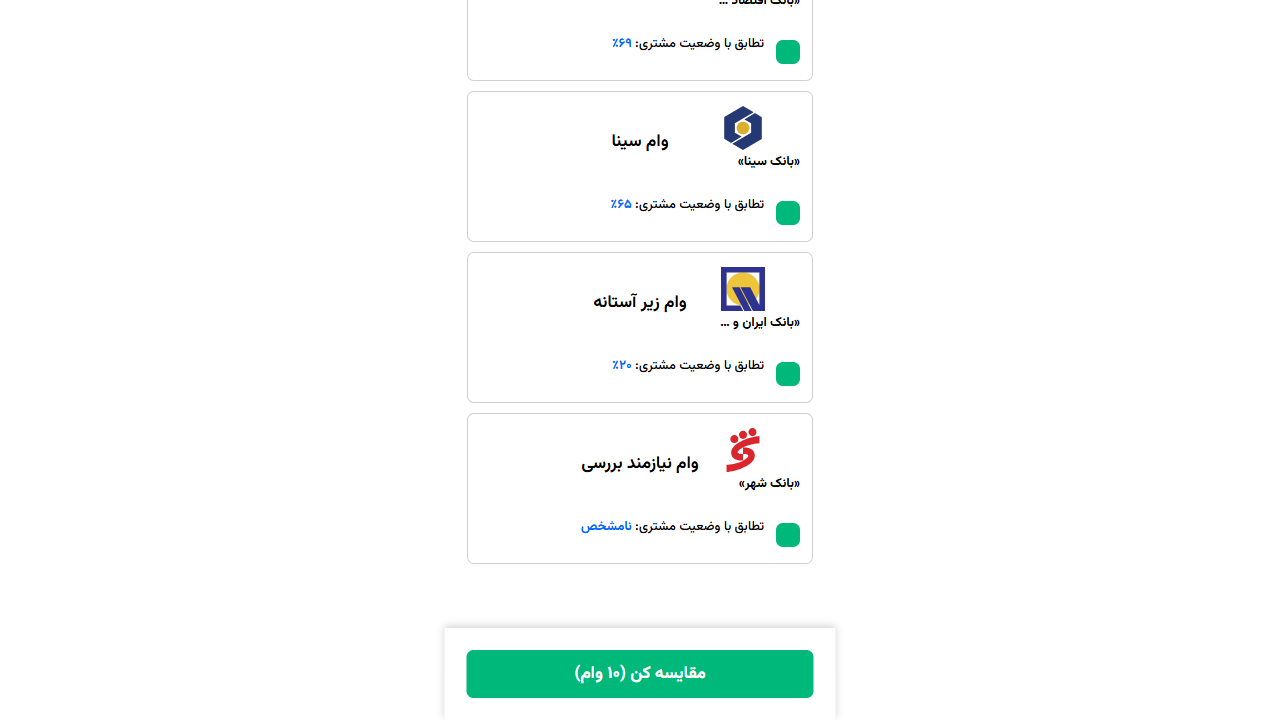
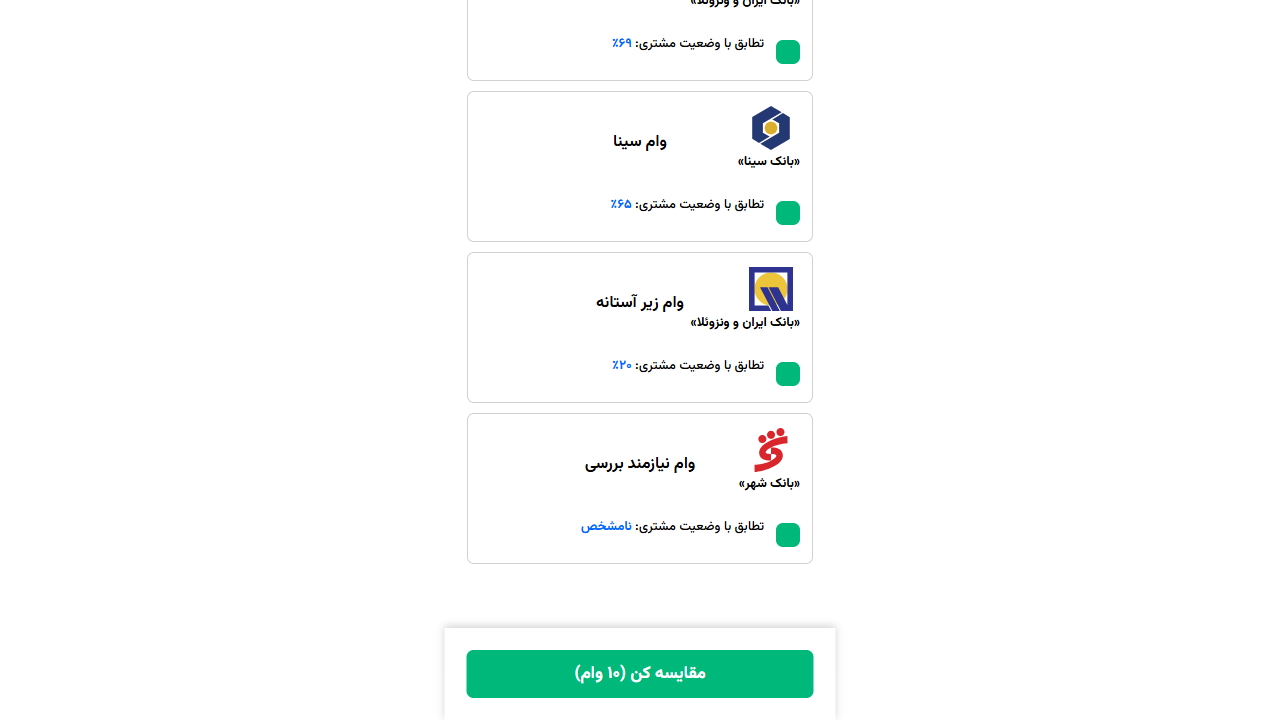
fix(US-09.T06H): preserve full lender names

diff --git a/src/App.css b/src/App.css
@@ -4624,7 +4624,7 @@ button {
   display: grid;
   place-items: center;
   min-height: 78px;
-  padding-inline: 90px;
+  padding-inline: 52px;
   box-sizing: border-box;
 }
 
@@ -4632,10 +4632,10 @@ button {
   position: absolute;
   inset-block-start: 0;
   inset-inline-start: 0;
-  width: 82px;
-  min-width: 0;
+  width: max-content;
+  min-width: 82px;
   display: grid;
-  justify-items: end;
+  justify-items: start;
   gap: 2px;
   font-size: 13px;
   font-weight: 900;
@@ -4647,6 +4647,7 @@ button {
   height: 48px;
   display: grid;
   place-items: center end;
+  justify-self: start;
 }
 
 .hp-bank-logo-box img {
@@ -4656,24 +4657,25 @@ button {
 }
 
 .hp-bank-name {
-  width: 100%;
-  min-width: 0;
-  overflow: hidden;
+  width: max-content;
+  max-width: none;
+  overflow: visible;
   display: block;
   white-space: nowrap;
-  text-overflow: ellipsis;
+  text-overflow: clip;
   text-align: right;
+  justify-self: start;
 }
 
 .hp-loan-result-head strong {
-  width: 100%;
+  width: min(100%, 200px);
   min-width: 0;
   overflow: hidden;
   text-overflow: ellipsis;
   text-align: center;
   align-self: center;
   justify-self: center;
-  font-size: 17px;
+  font-size: 16px;
   font-weight: 900;
   line-height: 1.4;
   white-space: nowrap;
@@ -4901,7 +4903,7 @@ button {
 }
 
 .hp-loan-compare-card .hp-loan-result-head {
-  padding-inline: 90px !important;
+  padding-inline: 52px !important;
 }
 
 .hp-loan-compare-card .hp-loan-result-head strong {
@@ -5018,7 +5020,7 @@ button {
 }
 
 .hp-compare-result-page {
-  padding-bottom: 108px;
+  padding-bottom: 0;
 }
 
 .hp-compare-result-tabs {
@@ -5084,6 +5086,8 @@ button {
   margin: 0 auto;
   display: grid;
   gap: 10px;
+  box-sizing: border-box;
+  padding-bottom: 110px;
 }
 
 .hp-compare-result-card {
@@ -5109,13 +5113,13 @@ button {
 
 .hp-compare-result-card > strong {
   grid-area: title;
-  width: 100%;
   min-height: 78px;
-  padding-inline: 90px;
+  width: min(100%, 200px);
+  padding-inline: 0;
   box-sizing: border-box;
   align-self: center;
   justify-self: center;
-  font-size: 17px;
+  font-size: 16px;
   font-weight: 900;
   line-height: 1.4;
   overflow: hidden;

diff --git a/docs/SHAHAB_PROJECT_DEVELOPMENT_CANONICAL_GUIDE.md b/docs/SHAHAB_PROJECT_DEVELOPMENT_CANONICAL_GUIDE.md
@@ -621,11 +621,11 @@ ERD باید از schema واقعی ساخته یا در CI با آن تطبیق
 
 **هدف و وابستگی:** پس از T06G و پیش از T07، طول نام بانک نباید جای logo یا عنوان وام را در هیچ کارت قابلدسترسی تغییر دهد.
 
-1. هویت بانک component مشترک با box ثابت logo و نام مستقلِ تکخطی و ellipsis کنترلشده باشد؛ نام کوتاه یا بلند مختصات logo را تغییر ندهد و نام کامل برای دسترسپذیری حفظ شود.
-2. logo با فاصلهٔ ثابت از لبهٔ راست و بالای border کارت anchor شود و عنوان وام مستقل، تکخطی و ellipsisشده در مرکز کارت بماند؛ دادهٔ نام برای رسیدن به layout کوتاه یا بازنویسی نشود.
+1. هویت بانک component مشترک با box ثابت logo و نام مستقلِ تکخطی و کامل باشد؛ نام بانک هرگز ellipsis، کوتاه یا دوخطی نشود، نام کوتاه یا بلند مختصات logo را تغییر ندهد و مقدار کامل API نمایش داده شود.
+2. logo با فاصلهٔ ثابت از لبهٔ راست و بالای border کارت anchor و لبهٔ راست آن با نام بانک همتراز شود. عنوان وام مستقل و تکخطی در مرکز کارت بماند؛ فضای آن حداقل عنوان چهارکلمهای مرجع را کامل نشان دهد و فقط عنوان طولانیتر با ellipsis محدود شود، بدون حذف یا بازنویسی داده.
 3. این قرارداد در نتایج high/low/variable، انتخاب مقایسه، نتیجهٔ مقایسه و جزئیات یکسان باشد و در mobile/desktop overflow ایجاد نکند. checkbox انتخاب مقایسه در راست کارت anchor شود و فهرست برای نوار ثابت اقدام فضای انتهایی کافی رزرو کند.
 4. logo فقط از asset داخلی و تأییدشده خوانده شود؛ داده، API، migration، scoring و D-005 تغییر نکنند.
-5. E2E با نام بانک/وام کوتاه و بلند، offset راست/بالای logo و راست checkbox را با `getBoundingClientRect` و تلرانس حداکثر ۱px اثبات کند؛ پنل فیلتر باید بالای کارتها قابل مشاهده/کلیک باشد و کارت دهم بالای نوار ثابت مقایسه کاملاً قابل تعامل بماند.
+5. E2E با نام بانک/وام کوتاه و بلند، کاملبودن نام بانک، نمایش کامل عنوان چهارکلمهای، ellipsis عنوان بلندتر، offset راست/بالای logo و راست checkbox را با `getBoundingClientRect` و تلرانس حداکثر ۱px اثبات کند؛ پنل فیلتر باید بالای کارتها قابل مشاهده/کلیک باشد، کارت دهم بالای نوار ثابت مقایسه کاملاً قابل تعامل بماند و آخرین کارت نتیجهٔ مقایسه حداقل ۲۰px تا دکمهٔ ثابت فاصله داشته باشد.
 
 **خارج از scope:** دادهٔ وام، موتور توصیهگر، provider خارجی و deploy واقعی تغییر نمیکند. `docs/project-current-state.md` تا پایان US-09/T07 تغییر نمیکند.
 

diff --git a/CHANGELOG.md b/CHANGELOG.md
@@ -7,7 +7,8 @@ The format follows [Keep a Changelog](https://keepachangelog.com/en/1.1.0/), and
 ## [Unreleased]
 
 ### Added
-- US-09.T06H follow-up: نام بانک و عنوان وام در همهٔ کارتها تکخطی و ellipsisشده شدند، checkbox مقایسه در راست ثابت شد، برای نوار ثابتِ مقایسه فضای scroll رزرو شد و stacking/overflow فیلترها بدون workaround قطع pointer اصلاح شد؛ تست هندسی و screenshot موبایل/دسکتاپ با ۱۰ وام افزوده شد. داده، API، migration و scoring تغییر نکردند.
+- US-09.T06H follow-up: نام کامل بانک بدون ellipsis و همراستا با logo نمایش داده میشود؛ بودجهٔ عنوان وام، عبارت چهارکلمهای مرجع را کامل نگه میدارد و فقط عنوان بلندتر را کوتاه میکند؛ آخرین کارت نتیجهٔ مقایسه نیز حداقل ۲۰px از دکمهٔ ثابت فاصله دارد. تغییر فقط UI/test/docs است و داده، API، migration و scoring را تغییر نمیدهد.
+- US-09.T06H follow-up: نام بانک و عنوان وام در همهٔ کارتها تکخطی شدند، checkbox مقایسه در راست ثابت شد، برای نوار ثابتِ مقایسه فضای scroll رزرو شد و stacking/overflow فیلترها بدون workaround قطع pointer اصلاح شد؛ تست هندسی و screenshot موبایل/دسکتاپ با ۱۰ وام افزوده شد. داده، API، migration و scoring تغییر نکردند.
 - US-09.T06H: یک component مشترک هویت بانک با box ثابت logo، نام مستقل و عنوان مستقل برای همهٔ کارتهای نتیجه، مقایسه و جزئیات؛ بدون تغییر داده/API/migration یا scoring.
 - US-09.T06F: نگهداری ۲۹ SVG تأییدشدهٔ بانک در assetهای کنترلشده، ثبت key/hash در serving facts و نمایش از مسیر پایدار برنامه.
 - US-09.T06G: مسیرهای URL-safe برای SVGها، نمایش RTL پایدارِ درصد و کنترل browser برای هر فیلتر.

diff --git a/docs/ui/loan-route-inventory.md b/docs/ui/loan-route-inventory.md
@@ -35,4 +35,4 @@ All three result partitions use the same card structure. Scores are server-owned
 
 ## Bank identity anchor — T06H
 
-Result, low-match, needs-review, comparison-selection, comparison-result and detail cards share one `BankIdentity` component. Its internal-only approved logo occupies a fixed box anchored from the card's right/top border; the right-aligned lender name and centered loan title each stay on one line with controlled ellipsis while their complete API value remains in `title`/accessible text. Comparison checkboxes have a fixed right offset independent of either name, and the list reserves scroll space for its fixed action bar. The results controls form the stacking context above the card list, with visible overflow and a small local menu layer, so options remain visible and clickable without disabling the cards or using an arbitrary global z-index. Browser geometry checks compare short and long names and require logo/checkbox offsets to remain within 1px in desktop and mobile layouts.
+Result, low-match, needs-review, comparison-selection, comparison-result and detail cards share one `BankIdentity` component. Its internal-only approved logo occupies a fixed box anchored from the card's right/top border. The lender name is right-aligned with the logo, always remains complete on one line and is never ellipsized; the centered loan title has a one-line 200px budget that keeps the four-word reference title visible and ellipsizes only longer titles while retaining the complete API value in `title`/accessible text. Comparison checkboxes have a fixed right offset independent of either name. Selection and result lists reserve scroll space for their fixed action bars; the final comparison-result card remains at least 20px from the fixed explanation button. The results controls form the stacking context above the card list, with visible overflow and a small local menu layer, so options remain visible and clickable without disabling the cards or using an arbitrary global z-index. Browser geometry checks compare short and long names and require logo/checkbox offsets to remain within 1px in desktop and mobile layouts.
